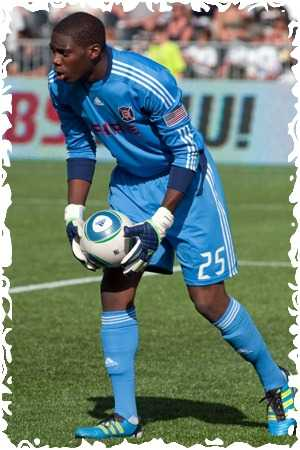
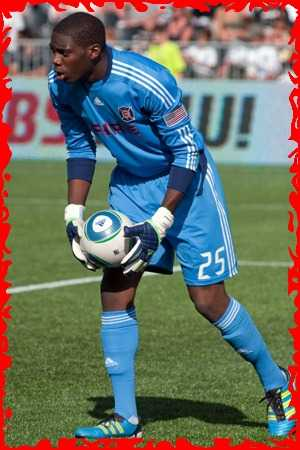
Colour support for pattern-border

Changed region(s): [[0.0, 0.0, 1.0, 1.0]]

diff --git a/app.rb b/app.rb
@@ -40,10 +40,10 @@ end
 
 #step 1: select image
 get '/images/upload' do
-	unless get_user.images.count > 30
+	unless get_user.images.count > 20
 		erb :upload
 	else
-		erb "Woops, your Forge is too full and can't take any more photos. Please <a href='/images'>remove some photos</a> first :)"
+		erb "Woops, your Forge is too full (it can only take 20 photos). Please <a href='/images'>remove some photos</a> first :)"
 	end
 end
 
@@ -93,7 +93,12 @@ get '/images/filter/:filter' do
 			when 'picasso'
 				file.write(filter.oil(unfiltered_image))						
 			when 'pattern-border'
-				file.write(filter.apply('bordereffects',unfiltered_image,filename))
+				if session[:pattern_border_colour]
+					file.write(filter.bordereffects(session[:pattern_border_colour],unfiltered_image,filename))
+					session[:pattern_border_colour] = nil					
+				else
+					redirect to '/images/filter/pattern-border/colour'
+				end			
 			when 'bevel-border'
 				file.write(filter.apply('bevelborder',unfiltered_image,filename))
 			when 'vignette'
@@ -182,6 +187,15 @@ end
 get '/images/filter/colour-border/colour-chosen' do
 	session[:colour_border_colour] = params[:colour]
 	redirect to '/images/filter/colour-border'
+end
+
+get '/images/filter/pattern-border/colour' do
+	erb :pattern_border_colour
+end
+
+get '/images/filter/pattern-border/colour-chosen' do
+	session[:pattern_border_colour] = params[:colour]
+	redirect to '/images/filter/pattern-border'
 end
 
 get '/images/:image_id' do

diff --git a/lib/photoforge/fred_filter.rb b/lib/photoforge/fred_filter.rb
@@ -10,4 +10,14 @@
 		end 	
 
 	end
+
+	def bordereffects(colour,file,filename)
+		begin
+			system "bash lib/fredscripts/bordereffects -b #{colour.to_s} #{file.path} public/temp/fred/#{filename}"
+			open('public/temp/fred/' + filename).read
+		rescue
+
+		end
+	end
+
 end
